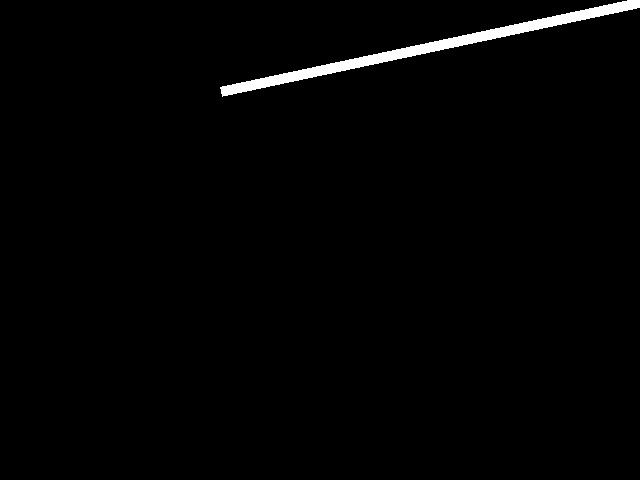
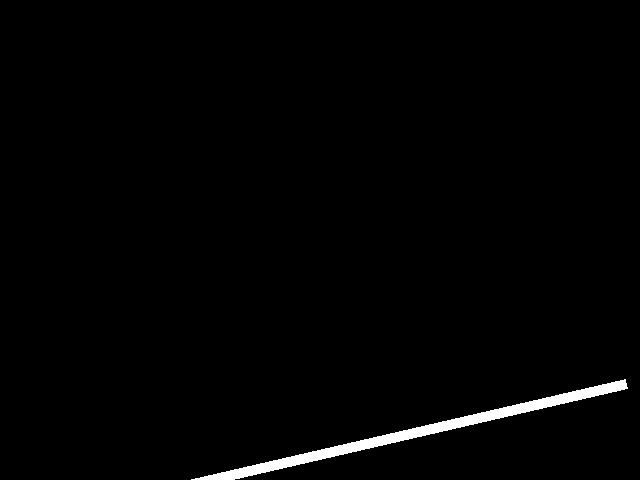
update code.

Changed region(s): [[0.3125, 0.7812, 1.0, 1.0], [0.3438, 0.0, 1.0, 0.2188]]

diff --git a/scratch/detect_start_line.py b/scratch/detect_start_line.py
@@ -1,8 +1,10 @@
 import numpy as np
 import cv2
+import os
 
-def get_rectangle_vertices(mask):
-    indices = np.where(mask == 255)
+
+def get_rectangle_vertices_simple(mask):
+    indices = np.where(mask >= 127)
     x_vec = indices[0]
     y_vec = indices[1]
 
@@ -18,21 +20,65 @@ def get_rectangle_vertices(mask):
     x_y_min = x_vec[np.where(y_vec == y_min)][0]
     x_y_max = x_vec[np.where(y_vec == y_max)][-1]
 
-    return [(x_min, x_min_y), (x_max, x_max_y), (x_y_min, y_min), (x_y_max, y_max)]   
+    return np.array([(x_min, x_min_y), (x_max, x_max_y), (x_y_min, y_min), (x_y_max, y_max)])
 
 
+def fit_rectangle(corners):
+    sorted_indices = np.lexsort((corners[:, 0], corners[:, 1]))
+    corners = corners[sorted_indices]
+    a, b, c, d = corners
 
+    print((a+b+c+d)[0]/4, (a+b+c+d)[1]/4)
+    virtual_c = np.array([(a+b+c+d)[0]/4, (a+b+c+d)[1]/4])
+    ab = b - a
+    bc = c - b
+    cd = d - c
+    da = a - d
+    
+    print(ab, bc, cd, da)
+
+    norm_ab = np.linalg.norm(ab)
+    norm_bc = np.linalg.norm(bc)
+    norm_cd = np.linalg.norm(cd)
+    norm_da = np.linalg.norm(da)
+
+    print(norm_ab, norm_bc, norm_cd, norm_da)
+
+    vec_norm = np.array([norm_ab, norm_bc, norm_cd, norm_da])
+    vec_side = np.array([ab, bc, cd, da])
+    # find the biggest vector, which might be the width side of the rectangle
+    idx = np.argmax(vec_norm)
+    w_side = vec_side[idx]
+    print(w_side)
+    w_side_p = np.array([-w_side[1], w_side[0]]) if w_side[1] >= 0 else np.array([w_side[1], -w_side[0]])
+
+    unit_w_side_p = w_side_p / np.linalg.norm(w_side_p)
+    return virtual_c, unit_w_side_p
 
 
 if __name__ == "__main__":
-    test_img = cv2.imread("/home/william/Codes/find-landmark/data/start_line/fake/start_0010.jpg", cv2.IMREAD_GRAYSCALE)
-    res = get_rectangle_vertices(test_img)
-    print(res)
-    img_copy = cv2.cvtColor(test_img, cv2.COLOR_GRAY2BGR)
-    for p in res:
-        x = p[0]
-        y = p[1]
-        cv2.circle(img_copy, (y, x), 1, (128, 127, 255), 1)
-    cv2.imshow("vertex", img_copy)
+    # test_img = cv2.imread(
+    #     "/home/william/Codes/find-landmark/data/start_line/fake/start_0001.jpg",
+    #     cv2.IMREAD_GRAYSCALE,
+    # )
+    basedir = "/home/william/Codes/find-landmark/data/start_line/fake"
+    all_file_names = [f for f in os.listdir(basedir)]
+    i = 1
+    for name in all_file_names:
+        test_img = cv2.imread(os.path.join(basedir, name), cv2.IMREAD_GRAYSCALE)
+        res = get_rectangle_vertices_simple(test_img)
+        # print(res)
+        c, unit_v = fit_rectangle(res)
+        end_point = unit_v * 200
+
+        img_copy = cv2.cvtColor(test_img, cv2.COLOR_GRAY2BGR)
+        for p in res:
+            x = p[0]
+            y = p[1]
+            cv2.circle(img_copy, (y, x), 1, (128, 127, 255), 1)
+        cv2.circle(img_copy, (int(c[1]), int(c[0])), 1, (0, 0, 255), 1)
+        cv2.line(img_copy, (int(c[1]), int(c[0])), (int(c[1] + end_point[1]), int(c[0] + end_point[0])), (128, 127, 255), 1)
+        cv2.imshow(f"vertex_{i}", img_copy)
+        i+=1
     cv2.waitKey(0)
     cv2.destroyAllWindows()

diff --git a/scratch/generate_fake_startline.m b/scratch/generate_fake_startline.m
@@ -3,7 +3,7 @@ function  generate_fake_startline()
 %   Detailed explanation goes here
 h = 10;
 w = 600;
-max_angle = 30;
+angle_range = [-15, 15];
 
 bg_h = 480;
 bg_w = 640;
@@ -13,9 +13,9 @@ scale = 1;
 savepath = "/home/william/Codes/find-landmark/data/start_line/fake";
 
 for i = 1:10
-    cx = randi(bg_w);
-    cy = randi(bg_h);
-    angle = randi(max_angle);
+    cx = randi([bg_w/2-30, bg_w/2+30]);
+    cy = randi([bg_h-60, bg_h-10]);
+    angle = randi(angle_range);
     mask = generate_fake_startline_impl(cx, cy, h, w, angle, bg_h, bg_w, scale);
     ext_name = 'start_%04d.jpg';
     full_name = sprintf(savepath+'/'+ext_name, i);
